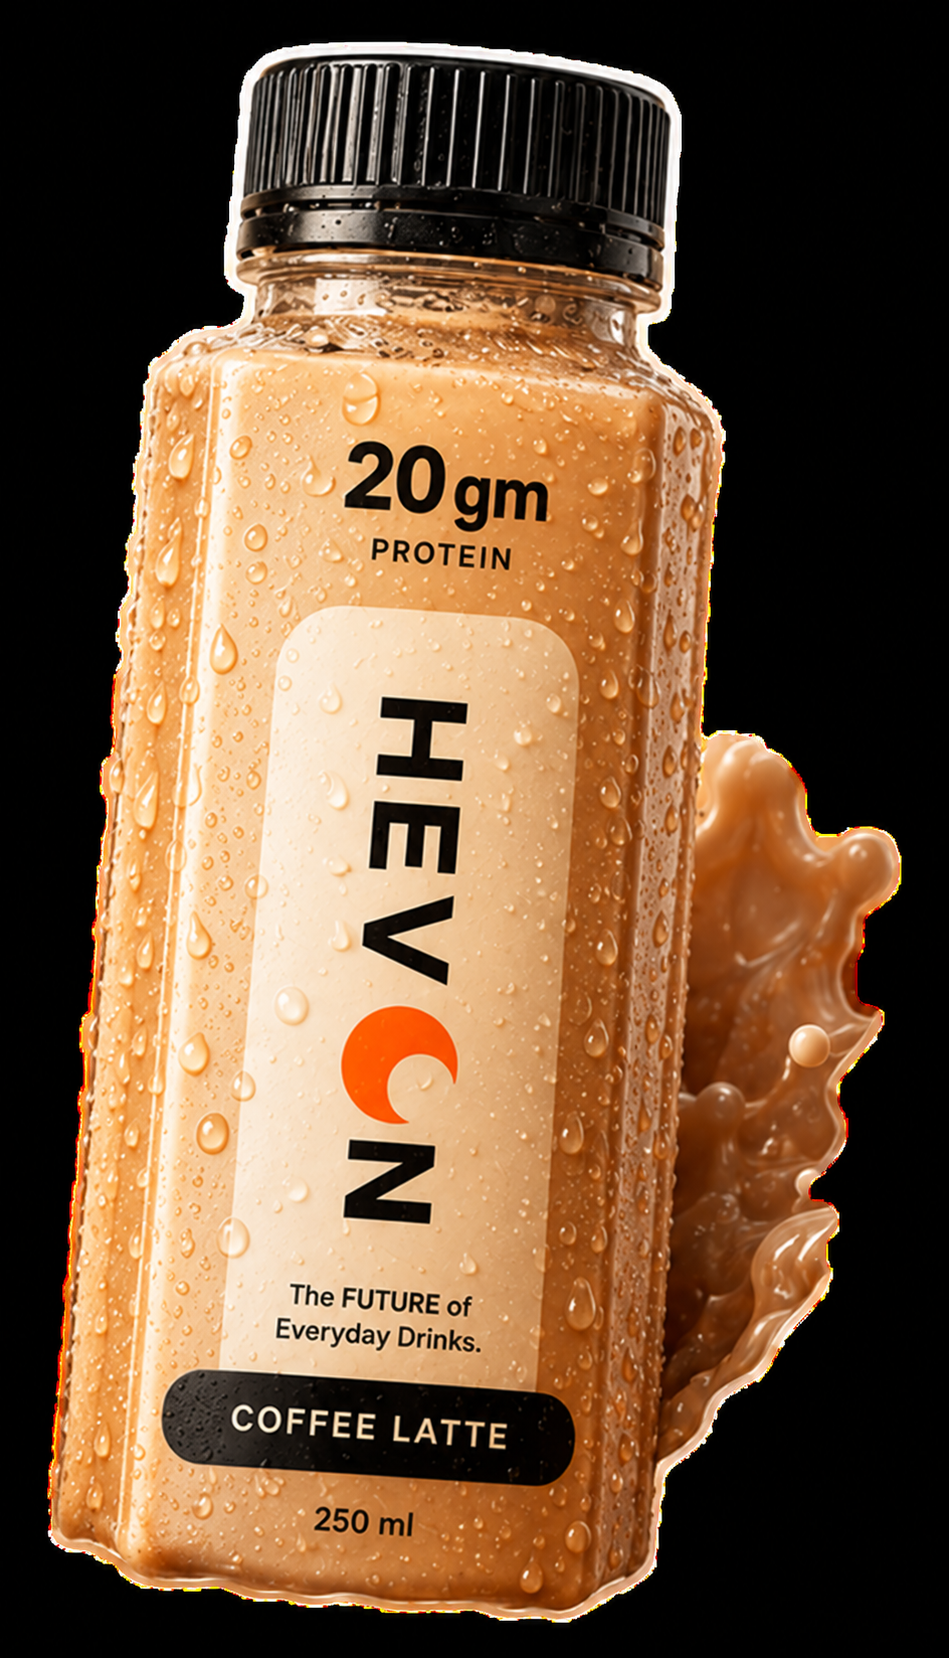
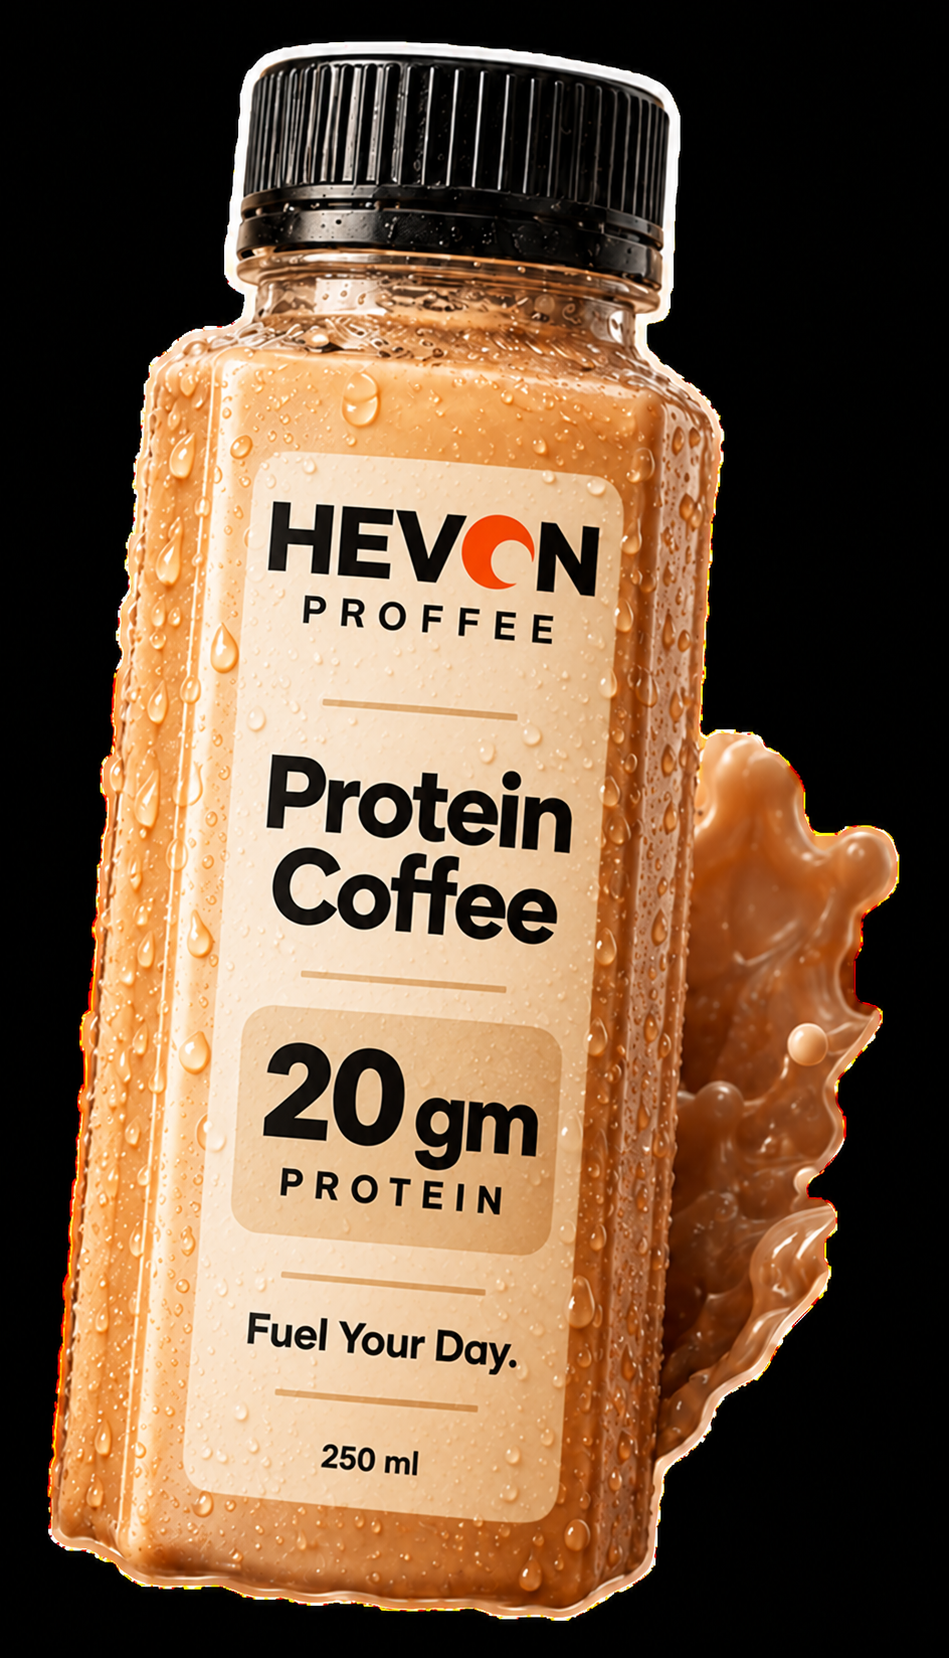
Apply HEVON PROFFEE brand identity

diff --git a/app/layout.tsx b/app/layout.tsx
@@ -5,10 +5,10 @@ import "./globals.css";
 export const metadata: Metadata = {
   metadataBase: new URL("https://hevon.in"),
   title: {
-    default: "HEVON — The Future of Everyday Drinks",
+    default: "HEVON PROFFEE — Protein Coffee",
     template: "%s | HEVON",
   },
-  description: "HEVON is developing a premium ready-to-drink protein beverage for India with 20 gm protein, zero added sugar and everyday taste.",
+  description: "HEVON Protein Coffee combines real coffee character with 20 gm protein and zero added sugar. Fuel Your Day.",
   keywords: ["HEVON", "protein drink India", "ready to drink protein", "protein coffee", "zero added sugar"],
   applicationName: "HEVON",
   authors: [{ name: "HEVON" }],
@@ -21,17 +21,17 @@ export const metadata: Metadata = {
     apple: "/logo/hevon-icon.svg",
   },
   openGraph: {
-    title: "HEVON — The Future of Everyday Drinks",
-    description: "Premium everyday drinks with 20 gm protein and zero added sugar. Launching first with Coffee Latte.",
+    title: "HEVON PROFFEE — Protein Coffee",
+    description: "HEVON Protein Coffee with 20 gm protein and zero added sugar. Fuel Your Day.",
     url: "https://hevon.in",
     siteName: "HEVON",
     type: "website",
-    images: [{ url: "/social/og-hevon.png", width: 1200, height: 630, alt: "HEVON protein drink pre-launch" }],
+    images: [{ url: "/social/og-hevon.png", width: 1200, height: 630, alt: "HEVON PROFFEE Protein Coffee — Fuel Your Day" }],
   },
   twitter: {
     card: "summary_large_image",
-    title: "HEVON — The Future of Everyday Drinks",
-    description: "Premium everyday drinks with 20 gm protein and zero added sugar.",
+    title: "HEVON PROFFEE — Protein Coffee",
+    description: "HEVON Protein Coffee with 20 gm protein and zero added sugar. Fuel Your Day.",
     images: ["/social/og-hevon.png"],
   },
 };

diff --git a/components/FAQ.tsx b/components/FAQ.tsx
@@ -5,11 +5,11 @@ import { Plus } from "lucide-react";
 import { useState } from "react";
 
 const items = [
-  ["What is HEVON?", "HEVON is a planned ready-to-drink high-protein beverage brand. Coffee Latte is the first product currently being explored for launch in India."],
+  ["What is HEVON?", "HEVON is the brand behind Protein Coffee—a ready-to-drink coffee with 20 gm protein being developed for launch in India."],
   ["How much protein will it contain?", "Each 250 ml bottle is designed to contain 20 gm protein. Final values will be confirmed after product development, stability testing and regulatory review."],
   ["Will every flavour contain caffeine?", "No. Caffeine is intended only for coffee-based flavours. Future non-coffee concepts would remain protein drinks without added caffeine."],
   ["Is HEVON available to buy now?", "Not yet. HEVON is in the pre-launch product-development stage. Joining the waitlist is the best way to receive verified launch updates."],
-  ["Are the future flavours confirmed?", "No. Coffee Latte is the planned launch flavour. Other flavours shown are concept directions and may change based on formulation feasibility and community feedback."],
+  ["Are the future flavours confirmed?", "No. Protein Coffee is the planned launch product. Other flavours shown are concept directions and may change based on formulation feasibility and community feedback."],
   ["Where will HEVON launch?", "The initial focus is India, with channel and city decisions to be finalised after manufacturing, regulatory and distribution planning."],
 ];
 

diff --git a/app/page.tsx b/app/page.tsx
@@ -22,12 +22,12 @@ export default function Home() {
         <div className="pointer-events-none absolute -right-24 bottom-20 h-[420px] w-[420px] rounded-full bg-[#ff6a00]/10 blur-3xl" />
         <div className="relative z-10 grid w-full items-center gap-4 lg:grid-cols-2 lg:gap-12">
           <Reveal direction="left" className="py-8 lg:py-0">
-            <p className="eyebrow">Pre-launch · Made for India</p>
+            <p className="eyebrow">HEVON PROFFEE · Made for India</p>
             <h1 className="mt-6 text-[52px] font-black leading-[.91] tracking-[-.06em] sm:text-6xl md:text-7xl lg:text-[78px]">
-              Great taste.<br />Real nutrition.<br /><span className="text-[#ff6a00]">Zero compromise.</span>
+              Protein Coffee.<br /><span className="text-[#ff6a00]">Fuel Your Day.</span>
             </h1>
             <p className="mt-7 max-w-xl text-base leading-8 text-black/58 sm:text-lg">
-              HEVON is building a premium everyday drink with <strong className="text-[#111]">20 gm protein</strong>, <strong className="text-[#111]">zero added sugar</strong> and flavour you will genuinely look forward to.
+              HEVON Protein Coffee brings together real coffee character, <strong className="text-[#111]">20 gm protein</strong> and <strong className="text-[#111]">zero added sugar</strong> in one convenient bottle.
             </p>
             <div className="mt-9 flex flex-col gap-3 sm:flex-row">
               <a href="#waitlist" className="button-primary">Join Waitlist</a>

diff --git a/components/Navbar.tsx b/components/Navbar.tsx
@@ -28,8 +28,9 @@ export default function Navbar() {
   return (
     <header className={`fixed inset-x-0 top-0 z-50 border-b transition-all duration-300 ${scrolled ? "border-black/8 bg-[#fff8f2]/94 shadow-[0_12px_32px_rgba(0,0,0,.06)] backdrop-blur-xl" : "border-black/5 bg-[#fff8f2]/88 backdrop-blur-lg"}`}>
       <div className={`mx-auto flex max-w-7xl items-center justify-between px-5 transition-all duration-300 sm:px-6 lg:px-10 ${scrolled ? "h-[68px]" : "h-[76px]"}`}>
-        <a href="#home" aria-label="HEVON home" className="shrink-0">
-          <Image src="/logo/hevon-wordmark.svg" alt="HEVON" width={146} height={36} priority className="h-auto w-[118px] sm:w-[132px]" />
+        <a href="#home" aria-label="HEVON PROFFEE home" className="flex shrink-0 items-center gap-3">
+          <Image src="/logo/hevon-wordmark.svg" alt="HEVON" width={146} height={36} priority className="h-auto w-[104px] sm:w-[118px]" />
+          <span className="border-l border-black/15 pl-3 text-[11px] font-black tracking-[.18em] text-[#ff6a00] sm:text-xs">PROFFEE</span>
         </a>
 
         <nav className="hidden items-center gap-8 text-[13px] font-semibold md:flex">

diff --git a/components/Flavours.tsx b/components/Flavours.tsx
@@ -6,7 +6,7 @@ import { ArrowUpRight, Coffee, Leaf, Sparkles } from "lucide-react";
 
 const flavours = [
   {
-    name: "Coffee Latte",
+    name: "Protein Coffee",
     copy: "Real Arabica coffee with a smooth, balanced finish.",
     from: "#f7eadf",
     to: "#bd855e",
@@ -80,7 +80,7 @@ export default function Flavours() {
             <p className="text-base leading-7 text-black/55">
               Every HEVON flavour follows the same promise: useful nutrition, zero added sugar and taste made for everyday life.
             </p>
-            <p className="mt-3 text-xs leading-5 text-black/38">Coffee Latte is the planned launch flavour. The rest are future concepts.</p>
+            <p className="mt-3 text-xs leading-5 text-black/38">Protein Coffee is the planned launch product. The rest are future concepts.</p>
           </div>
         </div>
 

diff --git a/components/Footer.tsx b/components/Footer.tsx
@@ -10,7 +10,7 @@ export default function Footer() {
         <div className="flex flex-col gap-9 sm:flex-row sm:items-start sm:justify-between">
           <div>
             <Image src="/logo/hevon-wordmark-dark.svg" alt="HEVON" width={146} height={36} className="h-auto w-[132px]" />
-            <p className="mt-3 max-w-sm text-sm leading-6 text-white/45">The Future of Everyday Drinks. Currently in pre-launch product development in India.</p>
+            <p className="mt-3 max-w-sm text-sm leading-6 text-white/45">HEVON Protein Coffee. Fuel Your Day. Currently in pre-launch product development in India.</p>
           </div>
 
           <div className="grid gap-8 text-sm sm:grid-cols-2">

diff --git a/components/ProductBottle.tsx b/components/ProductBottle.tsx
@@ -21,7 +21,7 @@ type ProductBottleProps = {
 
 export default function ProductBottle({
   compact = false,
-  flavour = "Coffee Latte",
+  flavour = "Protein Coffee",
   liquidFrom = "#e8c3a1",
   liquidMid = "#bd8056",
   liquidTo = "#6f3f25",
@@ -99,7 +99,7 @@ export default function ProductBottle({
 
           {!compact && (
             <p className={clsx("absolute inset-x-5 bottom-[15%] text-center text-[9px] leading-4", dark ? "text-black/70" : "text-black/65")}>
-              The <strong>FUTURE</strong> of Everyday Drinks.
+              <strong>Fuel Your Day.</strong>
             </p>
           )}
 

diff --git a/components/WhyHevon.tsx b/components/WhyHevon.tsx
@@ -58,7 +58,7 @@ export default function WhyHevon() {
           >
             <Image
               src="/hero-bottle-realistic-v2.png"
-              alt="HEVON Coffee Latte realistic product bottle with coffee beans and creamy splash"
+              alt="HEVON PROFFEE Protein Coffee bottle with coffee beans and creamy splash"
               fill
               sizes="(max-width: 1024px) 100vw, 55vw"
               className="object-cover object-center opacity-95"

diff --git a/components/HeroBottle.tsx b/components/HeroBottle.tsx
@@ -33,7 +33,7 @@ export default function HeroBottle({ compact = false }: { compact?: boolean }) {
         >
           <Image
             src="/hero-bottle-realistic-v2.png"
-            alt="HEVON Coffee Latte protein drink with coffee beans and creamy splash"
+            alt="HEVON PROFFEE Protein Coffee with coffee beans and creamy splash"
             width={916}
             height={690}
             priority={!compact}

diff --git a/components/Vote.tsx b/components/Vote.tsx
@@ -86,7 +86,7 @@ export default function Vote() {
             </h2>
 
             <p className="mt-5 max-w-xl text-base leading-7 text-black/55">
-              Coffee Latte is planned first. Your vote will help us understand
+              Protein Coffee is planned first. Your vote will help us understand
               which flavour the community wants us to develop next.
             </p>
           </div>

diff --git a/app/manifest.ts b/app/manifest.ts
@@ -2,9 +2,9 @@ import type { MetadataRoute } from "next";
 
 export default function manifest(): MetadataRoute.Manifest {
   return {
-    name: "HEVON",
+    name: "HEVON PROFFEE",
     short_name: "HEVON",
-    description: "The Future of Everyday Drinks.",
+    description: "HEVON Protein Coffee. Fuel Your Day.",
     start_url: "/",
     display: "standalone",
     background_color: "#fff8f2",

diff --git a/components/Ingredients.tsx b/components/Ingredients.tsx
@@ -5,7 +5,7 @@ const principles = [
   {
     icon: Coffee,
     title: "Real coffee experience",
-    copy: "Coffee Latte is being developed around real Arabica coffee character—not a generic coffee-flavoured shake.",
+    copy: "Protein Coffee is being developed around real Arabica coffee character—not a generic coffee-flavoured shake.",
   },
   {
     icon: FlaskConical,
